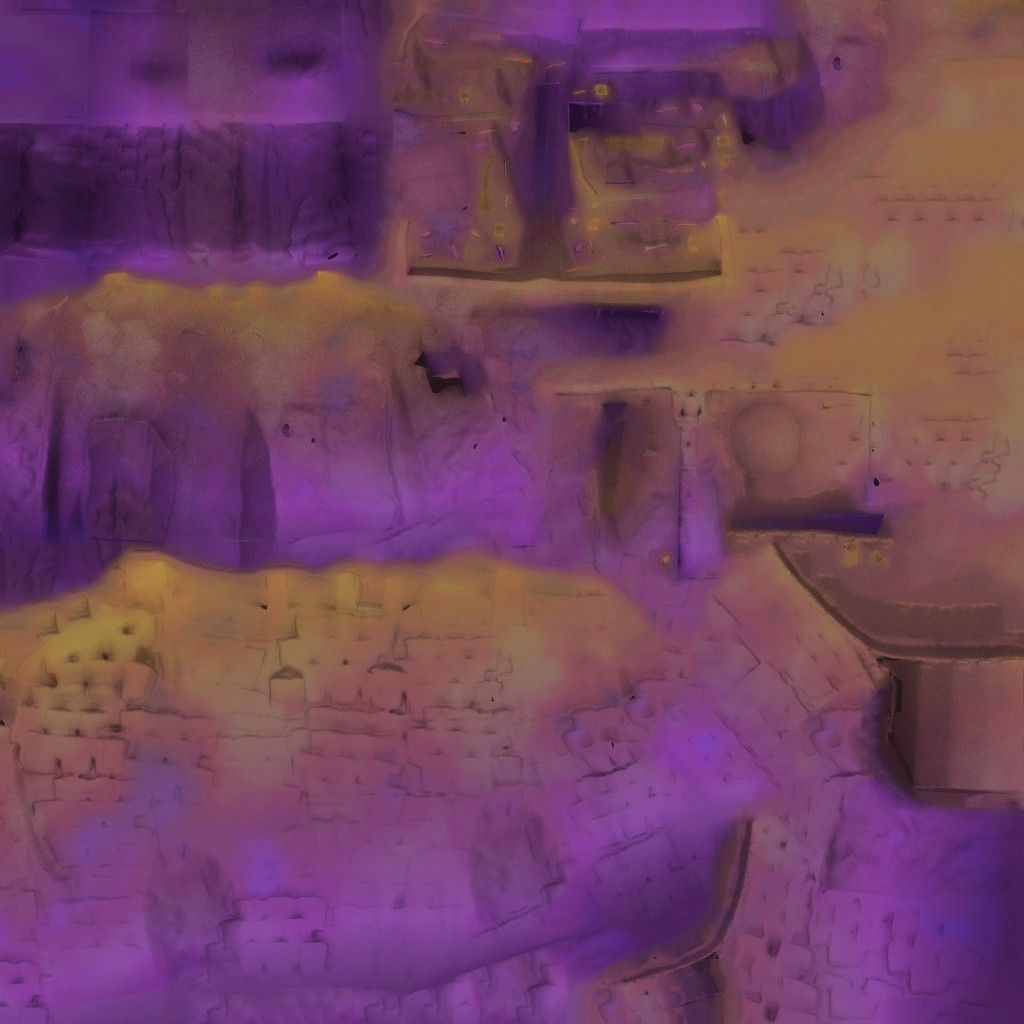
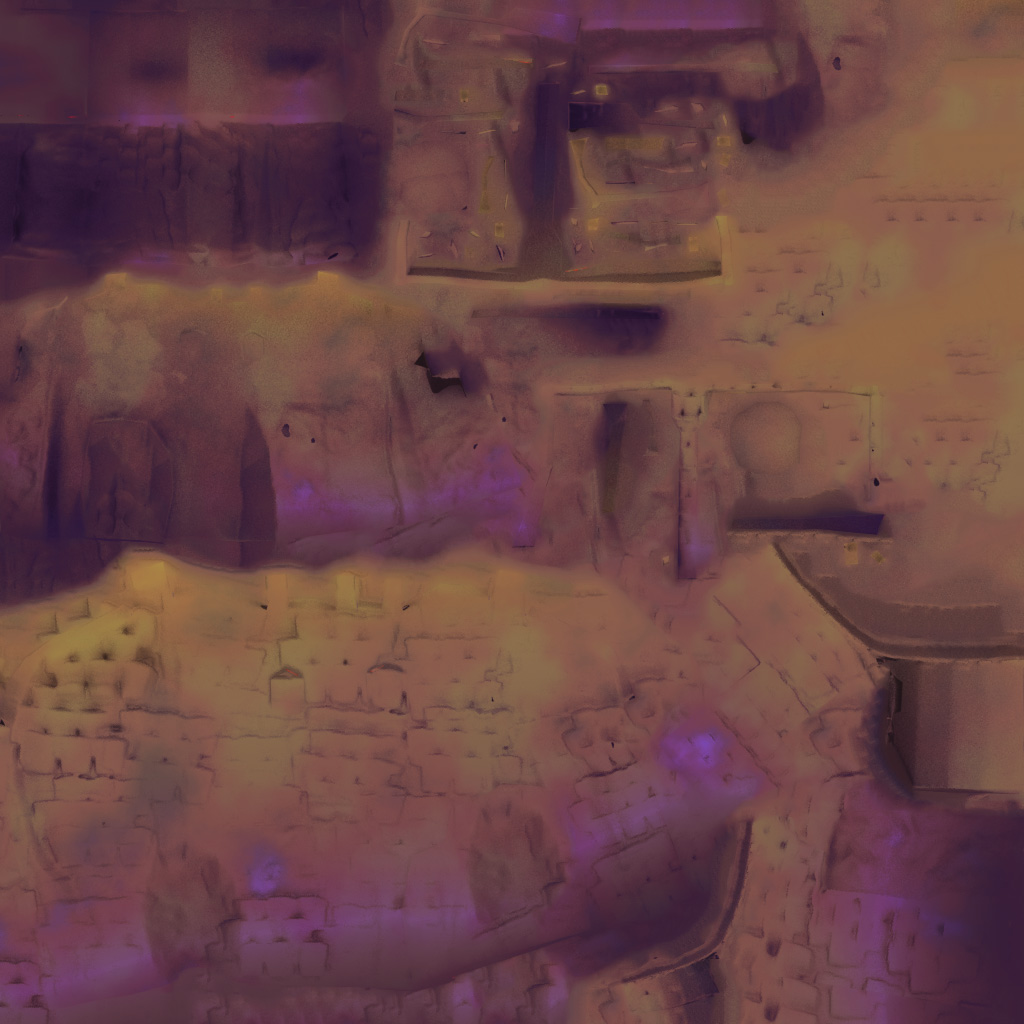
tonet ned veggfarger, lagt til et lys for veggen

diff --git a/js/setupLights.js b/js/setupLights.js
@@ -14,6 +14,12 @@
             animateobjects.push(pLight);
             scene.add( pLight );
 
+            //PointLight for wall
+            // (farge, intensitet, avstand)
+            let pLightw = new THREE.PointLight( 0xffffff, 0.40 , 1.6 );
+            pLightw.position.set( -0.95,1.5,-2.0 );
+            scene.add( pLightw );
+
 
             //Directional Light:
             let dirlight = new THREE.DirectionalLight(0xffffff, 1.5);
@@ -46,6 +52,9 @@
             //toggle shadowMapHelper:
             //shadowHelper(dirlight);
 
+            //toggle pLightwHelper
+            //pLightwHelper(pLightw);
+
         }
 
         function shadowHelper(dirlight) {
@@ -53,4 +62,10 @@
             //Lys/skygge-hjelper for directional
             let shadowhelper = new THREE.CameraHelper(dirlight.shadow.camera);
             scene.add( shadowhelper );
+        }
+
+        function pLightwHelper(pLightw){
+            "use strict";
+            let pLightwHelper = new THREE.PointLightHelper(pLightw,0.2);
+            scene.add( pLightwHelper );
         }

diff --git a/js/setupProps.js b/js/setupProps.js
@@ -58,7 +58,9 @@ function setupWall(posx,posy,posz){
 
     let wallmat = new THREE.MeshPhongMaterial( {
         map: walldiff,
-        normalMap: wallnorm
+        normalMap: wallnorm,
+        shininess: 04.0,
+        specular: new THREE.Color( 0.0,0.0,0.0 )
     });
 
      let wallloader = new THREE.FBXLoader( manager );
